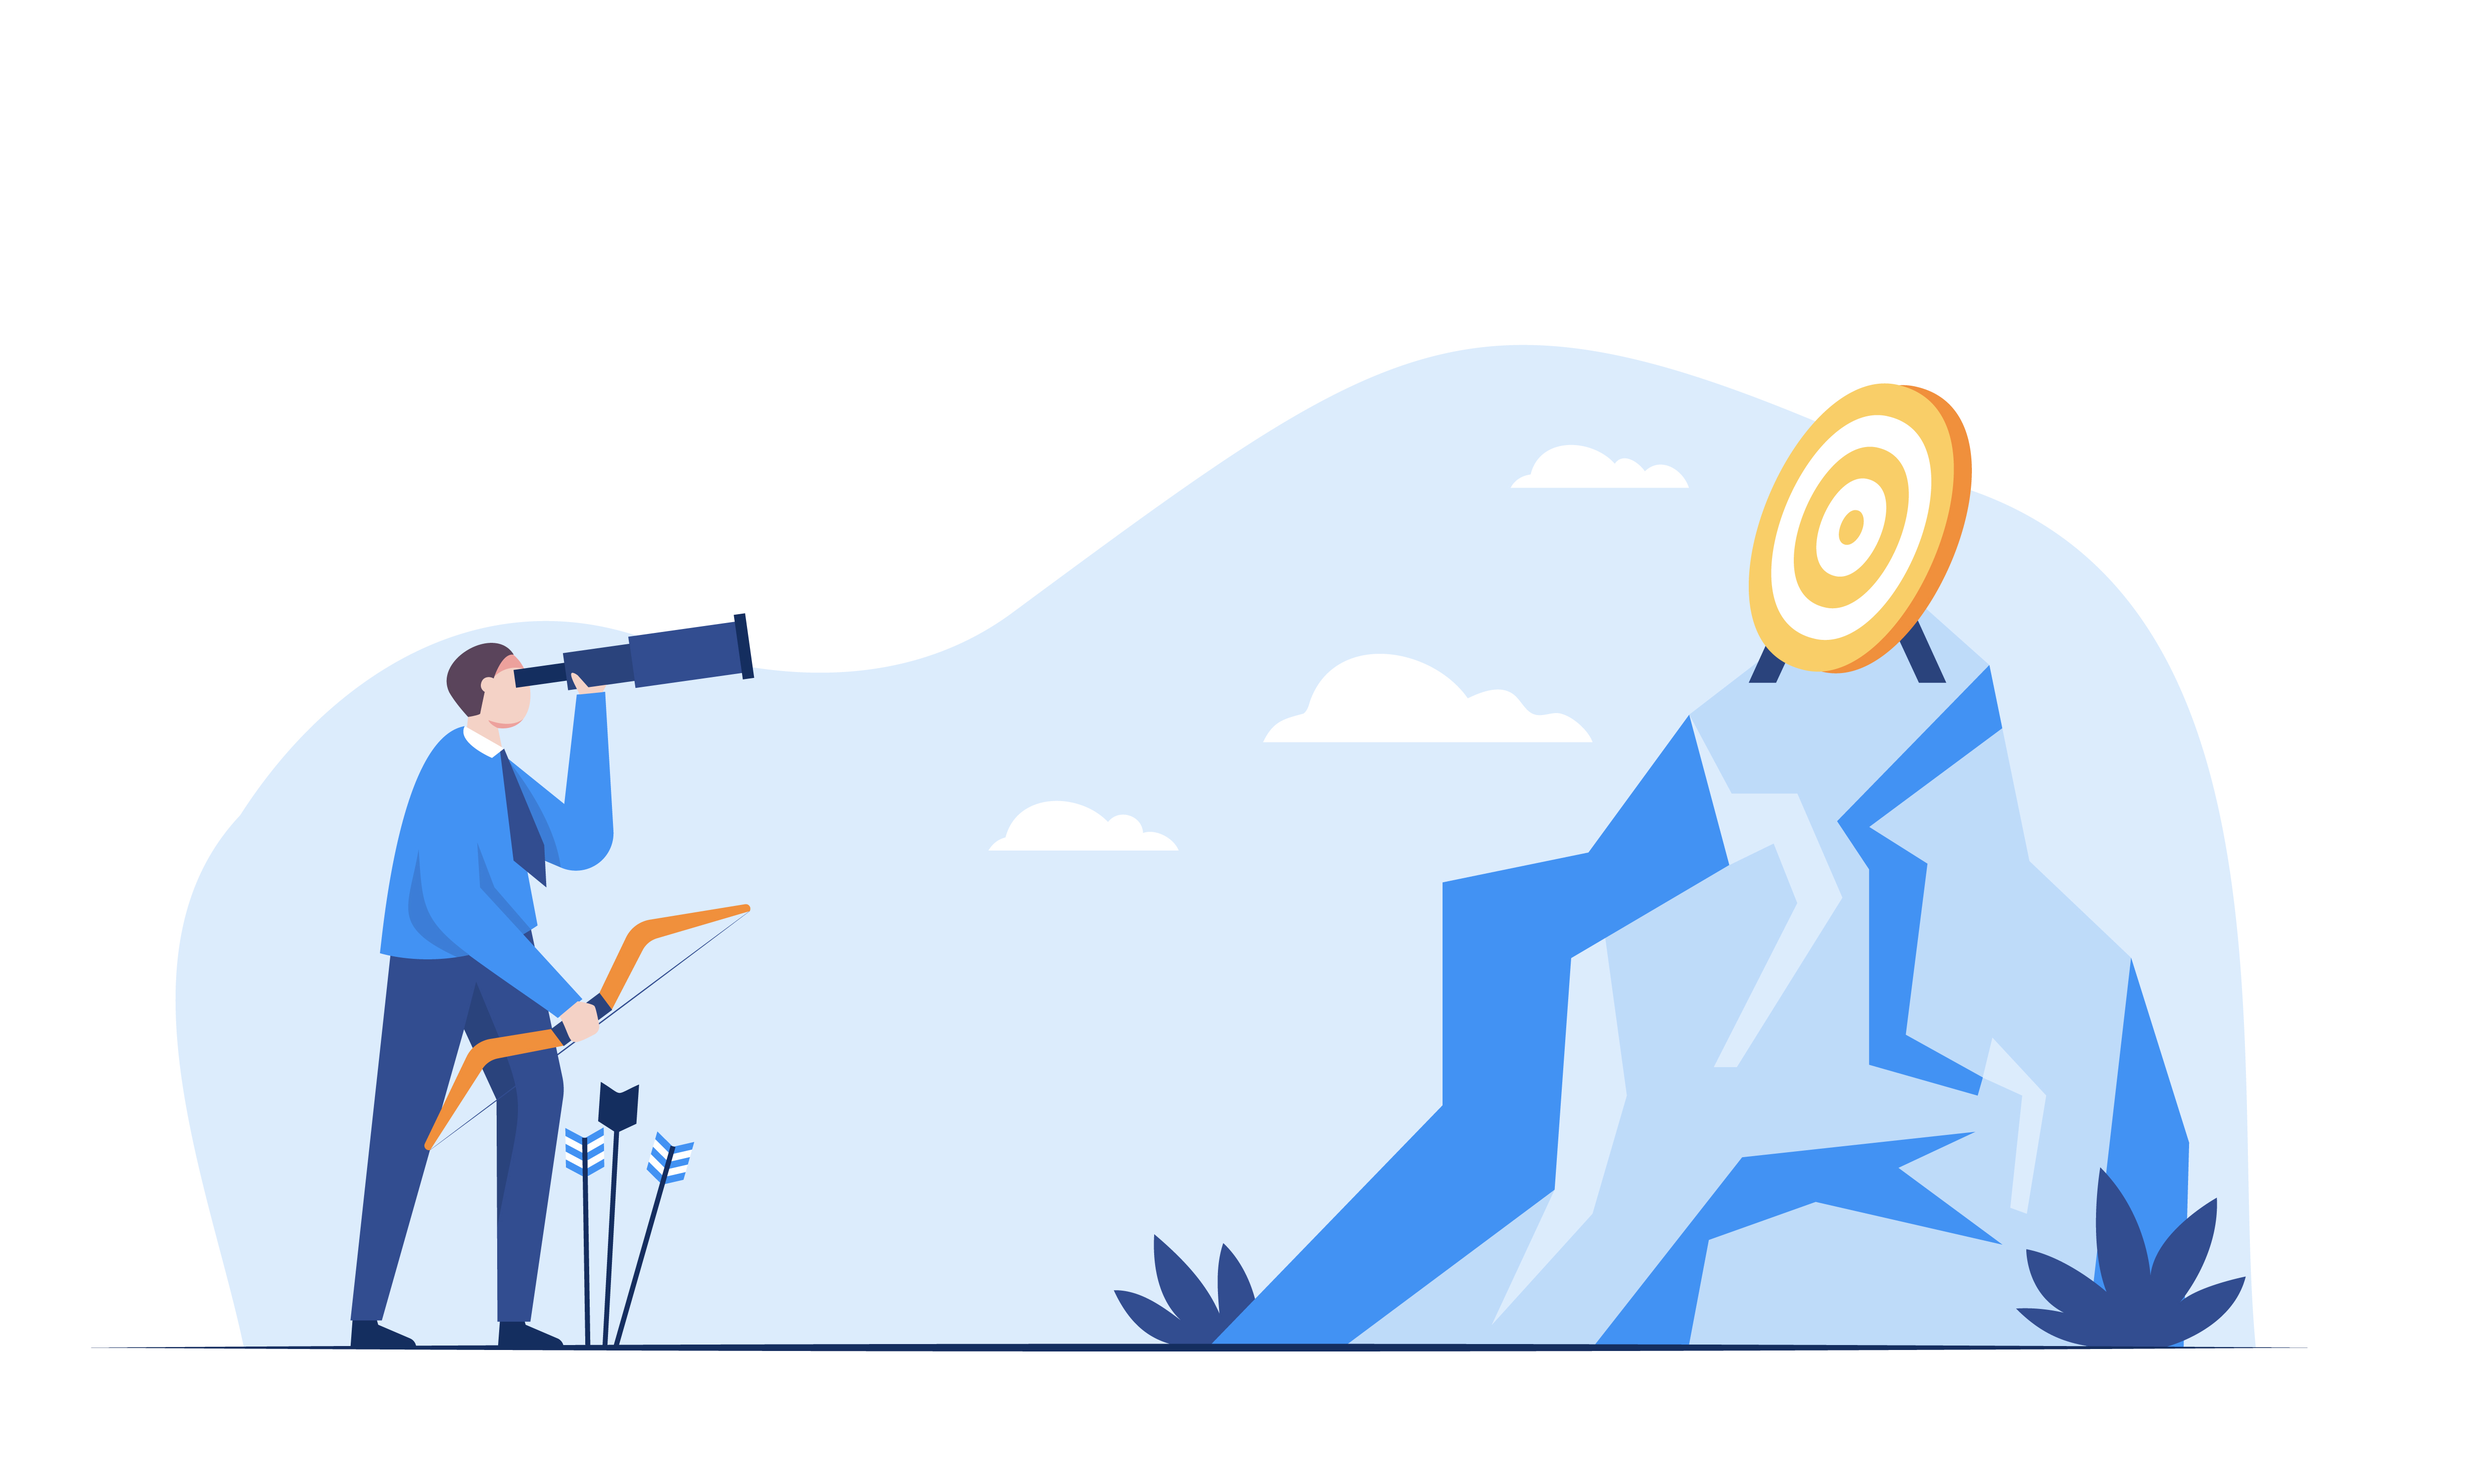
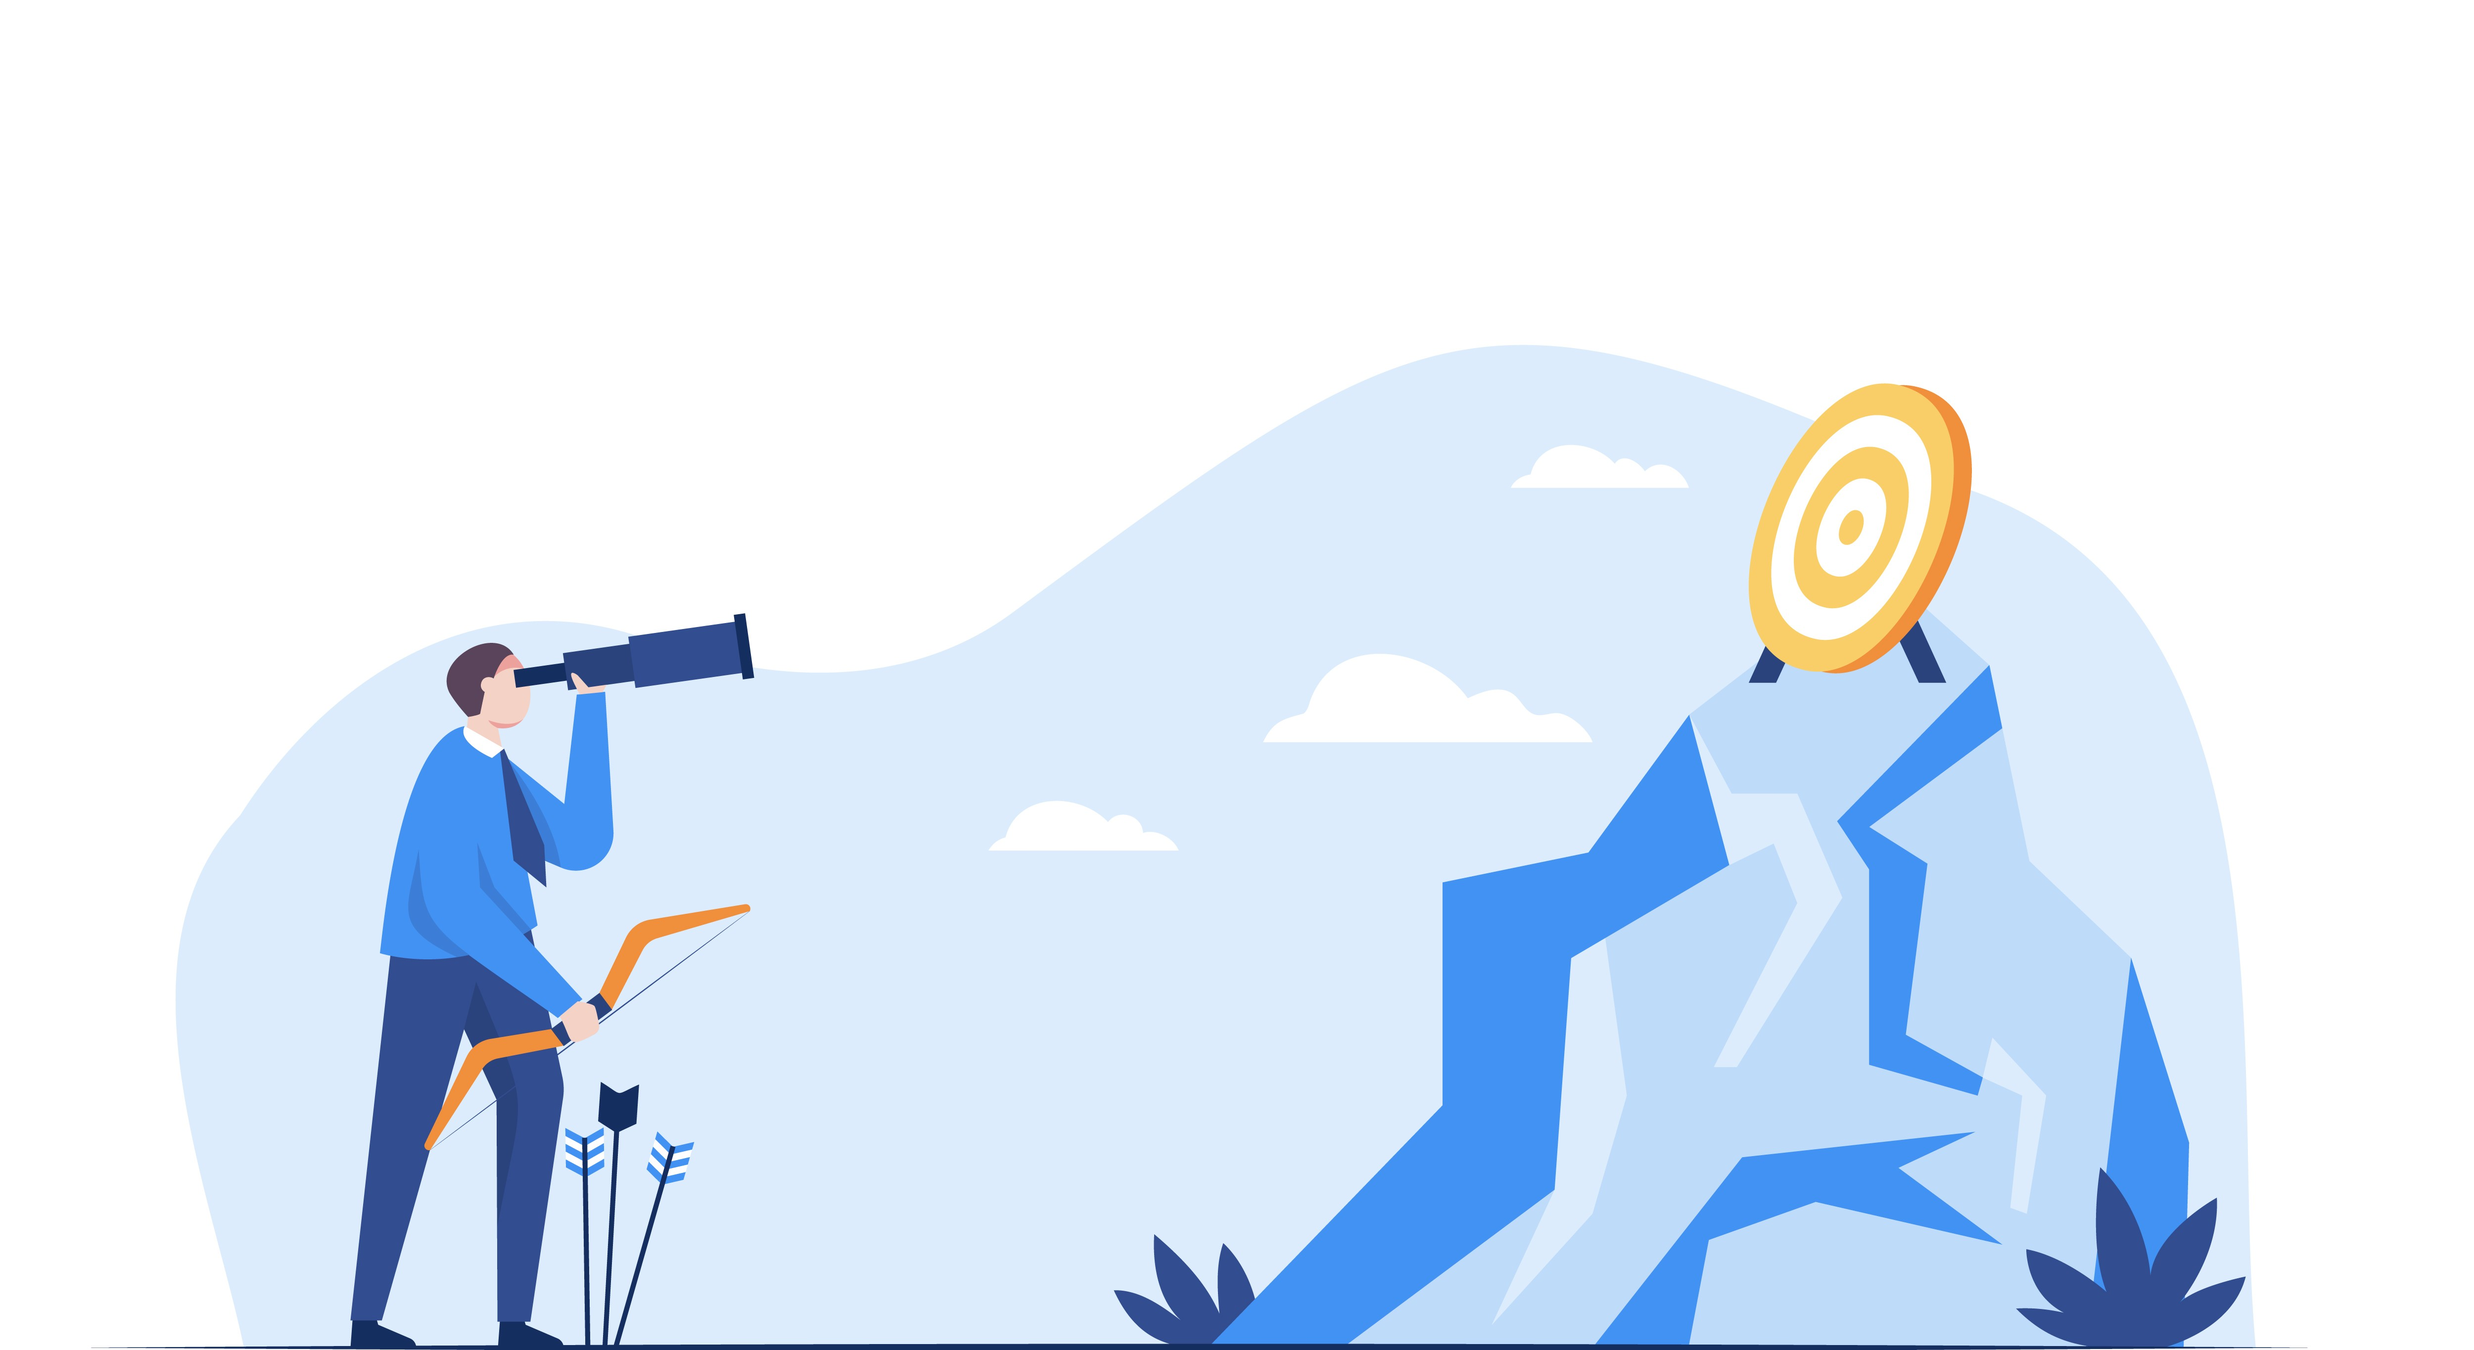
about us changes

Changed region(s): [[0.0312, 0.2179, 0.9358, 1.0], [0.4055, 0.5293, 0.4679, 0.6538]]

diff --git a/client/src/app/(public)/about-us/page.js b/client/src/app/(public)/about-us/page.js
@@ -560,11 +560,9 @@ export default function AboutUsPage() {
         </div>
       </section>
 
-      {/* ================= TEAM ================= */}
-      <TeamSection />
-
       {/* ================= VALUES ================= */}
-      <section className="relative overflow-hidden bg-[#f4f4f0] px-6 lg:px-10 pb-16 pt-12 lg:pb-20 lg:pt-16">
+      <section className="relative overflow-hidden bg-white px-6 lg:px-10 pb-16 pt-12 lg:pb-20 lg:pt-16">
+        {/* Soft background blobs */}
         <div
           className="pointer-events-none absolute -right-20 top-10 h-72 w-72 rounded-full bg-orange-300/30 blur-3xl"
           aria-hidden="true"
@@ -576,34 +574,87 @@ export default function AboutUsPage() {
         {/* Optional light grid */}
         <div
           className="pointer-events-none absolute inset-0 opacity-[0.65]
-                    [background-image:linear-gradient(to_right,rgba(0,0,0,0.06)_1px,transparent_1px),linear-gradient(to_bottom,rgba(0,0,0,0.06)_1px,transparent_1px)]
-                    [background-size:48px_48px]"
+              [background-image:linear-gradient(to_right,rgba(0,0,0,0.06)_1px,transparent_1px),linear-gradient(to_bottom,rgba(0,0,0,0.06)_1px,transparent_1px)]
+              [background-size:48px_48px]"
           aria-hidden="true"
         />
 
-        <div className="relative mx-auto">
+        <div className="relative mx-auto max-w-5xl">
           {/* Header */}
-          <h2 className="text-4xl md:text-6xl lg:text-7xl tracking-[-0.06em] leading-none mb-12 text-center">
+          <h2 className="text-4xl md:text-6xl lg:text-7xl tracking-[-0.06em] leading-none mb-16 md:mb-20 text-center">
             Our way of working
           </h2>
 
-          <div className="grid gap-6 sm:grid-cols-2 lg:grid-cols-4">
-            {values.map((item, index) => (
-              <FadeUp key={item.number} delay={index * 80}>
-                <div className="group h-full rounded-2xl border border-primary bg-white p-8 transition-all duration-500 hover:-translate-y-1 hover:border-primary hover:bg-primary hover:text-white group">
-                  <span className="text-sm text-black/30 group-hover:text-white/40">
-                    {item.number}
-                  </span>
-                  <h3 className="mt-6 text-xl font-semibold text-primary group-hover:text-white">{item.title}</h3>
-                  <p className="mt-4 text-sm leading-relaxed text-black/55 group-hover:text-white/60">
-                    {item.description}
-                  </p>
-                </div>
-              </FadeUp>
-            ))}
+          {/* Timeline */}
+          <div className="relative">
+            {/* Center dotted line */}
+            <div
+              className="absolute left-1/2 top-0 bottom-0 w-px -translate-x-1/2 
+                   bg-[repeating-linear-gradient(to_bottom,theme(colors.primary)_0,theme(colors.primary)_6px,transparent_6px,transparent_14px)]
+                   opacity-40"
+              aria-hidden="true"
+            />
+
+            <div className="space-y-16 md:space-y-24">
+              {values.map((item, index) => {
+                const isLeft = index % 2 === 0;
+
+                return (
+                  // <FadeUp key={item.number} delay={index * 120}>
+                  <FadeUp
+                    key={item.number}
+                    delay={index * 120}
+                    initial={{ opacity: 0, x: isLeft ? -60 : 60 }}
+                    animate={{ opacity: 1, x: 0 }}
+                  >
+                    <div
+                      className={`relative flex items-center ${isLeft ? "md:flex-row" : "md:flex-row-reverse"
+                        }`}
+                    >
+                      {/* Card */}
+                      <div
+                        className={`w-full md:w-[calc(50%-2.5rem)] group rounded-2xl border border-primary bg-white p-7 md:p-8
+                              transition-all duration-500
+                              hover:-translate-y-1 hover:bg-primary hover:text-white
+                              ${isLeft ? "md:mr-auto" : "md:ml-auto"}`}
+                      >
+                        <span className="text-sm text-black/30 group-hover:text-white/40">
+                          {item.number}
+                        </span>
+                        <h3 className="mt-5 text-xl font-semibold text-primary group-hover:text-white">
+                          {item.title}
+                        </h3>
+                        <p className="mt-3 text-sm leading-relaxed text-black/55 group-hover:text-white/60">
+                          {item.description}
+                        </p>
+                      </div>
+
+                      {/* Center node */}
+                      <div
+                        className="absolute left-1/2 top-1/2 z-10 flex h-10 w-10 -translate-x-1/2 -translate-y-1/2
+                             items-center justify-center rounded-full border-2 border-primary bg-[#f4f4f0]
+                             text-sm font-semibold text-primary shadow-sm
+                             transition-all duration-500
+                             group-hover:bg-primary group-hover:text-white max-sm:hidden"
+                      >
+                        {String(index + 1).padStart(2, "0")}
+                      </div>
+
+                      {/* Spacer so the opposite side stays empty on desktop */}
+                      <div className="hidden md:block md:w-[calc(50%-2.5rem)]" />
+                    </div>
+                  </FadeUp>
+                );
+              })}
+            </div>
           </div>
         </div>
       </section>
+
+      {/* ================= TEAM ================= */}
+      <TeamSection />
+
+
 
       {/* ================= Services ================= */}
       <section className="bg-black text-white py-10">

diff --git a/client/src/app/(public)/contact-us/page.js b/client/src/app/(public)/contact-us/page.js
@@ -385,7 +385,7 @@ export default function ContactPage() {
           </div>
 
           {/* Right Side - FORM */}
-          <div className="border bg-gray-100 px-6 lg:px-10 py-10 lg:py-16">
+          <div className="bg-gray-100 px-6 lg:px-10 py-10 lg:py-16">
             {/* Header */}
             <div className="flex flex-col lg:flex-row lg:justify-between gap-8 mb-10">
               <div>
@@ -590,7 +590,7 @@ export default function ContactPage() {
       </section>
 
       {/* BOTTOM CTA */}
-      <section className="relative overflow-hidden text-black px-6 lg:px-10 py-16 lg:py-24">
+      {/* <section className="relative overflow-hidden text-black px-6 lg:px-10 py-16 lg:py-24">
         <div
           className="pointer-events-none absolute -right-20 top-10 h-72 w-72 rounded-full bg-orange-300/30 blur-3xl"
           aria-hidden="true"
@@ -600,7 +600,7 @@ export default function ContactPage() {
           aria-hidden="true"
         />
 
-        {/* Optional light grid */}
+        Optional light grid
         <div
           className="pointer-events-none absolute inset-0 opacity-[0.65]
                     [background-image:linear-gradient(to_right,rgba(0,0,0,0.06)_1px,transparent_1px),linear-gradient(to_bottom,rgba(0,0,0,0.06)_1px,transparent_1px)]
@@ -654,7 +654,7 @@ export default function ContactPage() {
             </a>
           </div>
         </div>
-      </section>
+      </section> */}
     </main>
   );
 }

diff --git a/client/src/components/public/servicepage/Services.jsx b/client/src/components/public/servicepage/Services.jsx
@@ -17,20 +17,20 @@ export default function Services({ servicesData }) {
 
           <div className="relative z-10 ">
             {/* Header */}
-            <div className="flex flex-col lg:flex-row lg:justify-between gap-8 mb-20 max-sm:mb-10">
-              <div>
+            {/* <div className="flex flex-col lg:flex-row lg:justify-between gap-8 mb-20 max-sm:mb-10"> */}
+              {/* <div>
                 <p className="text-xs uppercase tracking-[0.2em] text-white/40 mb-5">
                   SERVICES WE OFFER
-                </p>
-                <h2 className="text-4xl md:text-6xl lg:text-7xl tracking-[-0.06em] leading-none">
+                </p> */}
+                <h2 className="text-4xl md:text-6xl lg:text-7xl tracking-[-0.06em] leading-none text-center mb-12">
                   {servicesData.title}
                 </h2>
-              </div>
+              {/* </div> */}
 
-              <p className="max-w-sm text-white/50 leading-relaxed lg:pt-10">
+              {/* <p className="max-w-sm text-white/50 leading-relaxed lg:pt-10">
                 We measure success not just by projects delivered, but by the lasting impact we create for our partners.
               </p>
-            </div>
+            </div> */}
 
             {/* Stats Grid */}
             <div className="grid grid-cols-1 sm:grid-cols-2 lg:grid-cols-4 gap-6 lg:gap-8">

diff --git a/client/src/components/public/ServicePage.jsx b/client/src/components/public/ServicePage.jsx
@@ -28,14 +28,17 @@ export default function ServicePage({ service, projects = [] }) {
       {/* ================= CLIENT MARQUEE ============ */}
       <ClientMarquee clients={service.clients} />
 
-      {/* ================= SERVICE INTRO ============= */}
-      <ServiceForm service={service} />
+      {/* ================ SERVICES SECTION (Only One) ========= */}
+      <Services servicesData={servicesSection} />
 
       {/* ================= PORTFOLIO ================= */}
       <Portfolio service={service} projects={projects} />
+      
+      {/* ================= SERVICE INTRO ============= */}
+      <ServiceForm service={service} />
 
-      {/* ================ SERVICES SECTION (Only One) ========= */}
-      <Services servicesData={servicesSection} />
+
+
 
       {/* ================ PROCESS SECTION ============= */}
       <Process processData={processSection} />
